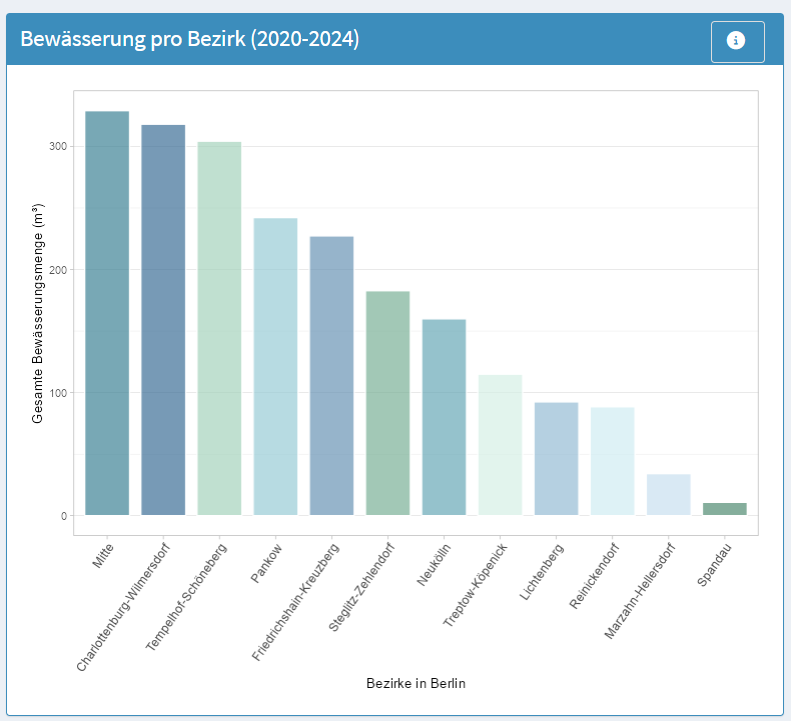
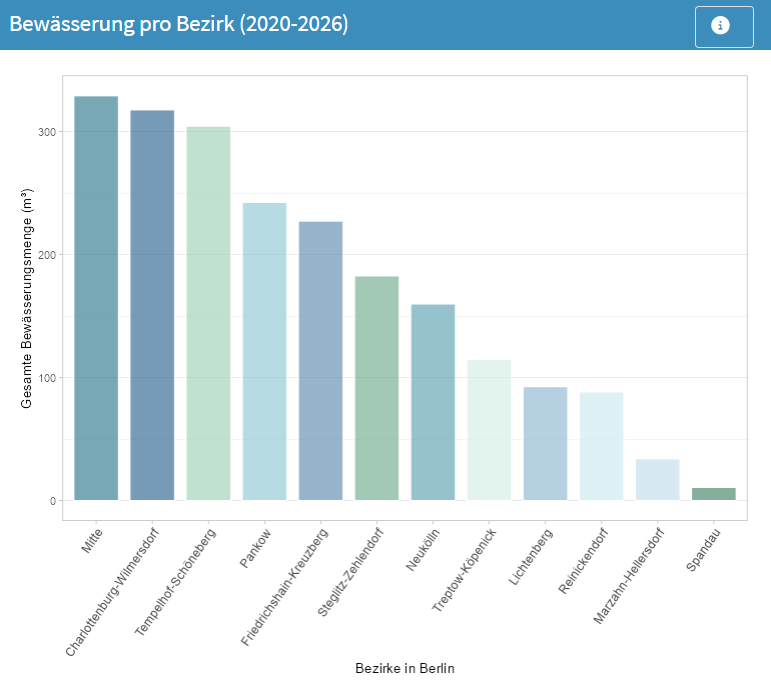
issue 148 angebrochen

diff --git a/dashboard/Übung_Bewässerungsanalyse.md b/dashboard/Übung_Bewässerungsanalyse.md
@@ -37,7 +37,7 @@ name: Bewässerung pro Bezirk
 alt: Balkendiagramm Gesamte Bewässerungsmenge pro Bezirk
 width: 600px
 ---
-Balkendiagramm zur Bewässerung pro Bezirk. Die Abbildung zeigt die aggregierte Bewässerungsmenge in Millionen Litern für die einzelnen Berliner Bezirke. Auf der x-Achse sind die Bezirke dargestellt, während die y-Achse die gesamte Bewässerungsmenge angibt. Das Diagramm ermöglicht einen direkten Vergleich der Bewässerungsintensität zwischen den Bezirken. (Quelle: eigene Ausarbeitung)
+Balkendiagramm zur Bewässerung pro Bezirk (2020-2026). Die Abbildung zeigt die aggregierte Bewässerungsmenge in Millionen Litern für die einzelnen Berliner Bezirke. Auf der x-Achse sind die Bezirke dargestellt, während die y-Achse die gesamte Bewässerungsmenge angibt. Das Diagramm ermöglicht einen direkten Vergleich der Bewässerungsintensität zwischen den Bezirken. (Quelle: eigene Ausarbeitung)
 ```
 
 ```{figure} ../assets/Dashboard_Bewässerungsanalyse_2.png
@@ -46,7 +46,7 @@ name: Durchschnittliche Bewässerung pro gegossenem Baum
 alt: Baumdiagramm entsprechend dem Titel nach Bezirk
 width: 600px
 ---
-Durchschnittliche Bewässerungsmenge pro gegossenem Baum nach Bezirk. Die Abbildung zeigt die durchschnittliche Bewässerungsmenge pro gegossenem Baum in Litern für die einzelnen Berliner Bezirke. Auf der x-Achse sind die Bezirke dargestellt, während die y-Achse die durchschnittliche Bewässerungsmenge pro Baum angibt. Das Balkendiagramm verdeutlicht Unterschiede in der Bewässerungsintensität zwischen den Bezirken. (Quelle: eigene Ausarbeitung)
+Durchschnittliche Bewässerungsmenge pro gegossenem Baum nach Bezirk (2020-2026). Die Abbildung zeigt die durchschnittliche Bewässerungsmenge pro gegossenem Baum in Litern für die einzelnen Berliner Bezirke. Auf der x-Achse sind die Bezirke dargestellt, während die y-Achse die durchschnittliche Bewässerungsmenge pro Baum angibt. Das Balkendiagramm verdeutlicht Unterschiede in der Bewässerungsintensität zwischen den Bezirken. (Quelle: eigene Ausarbeitung)
 ``` 
 
 ## Benutzeroberfläche (UI)